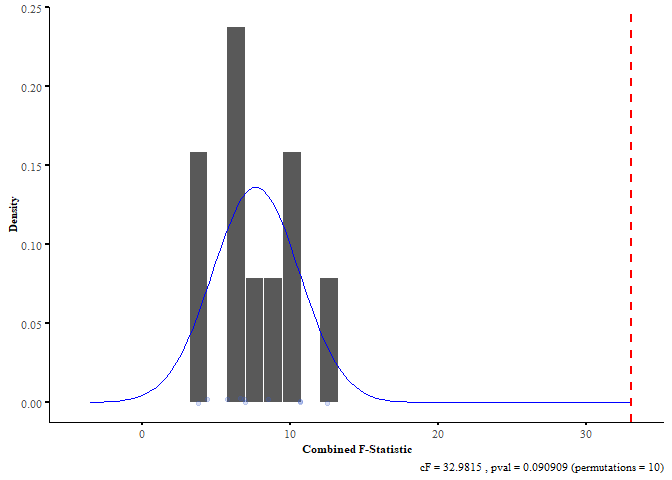
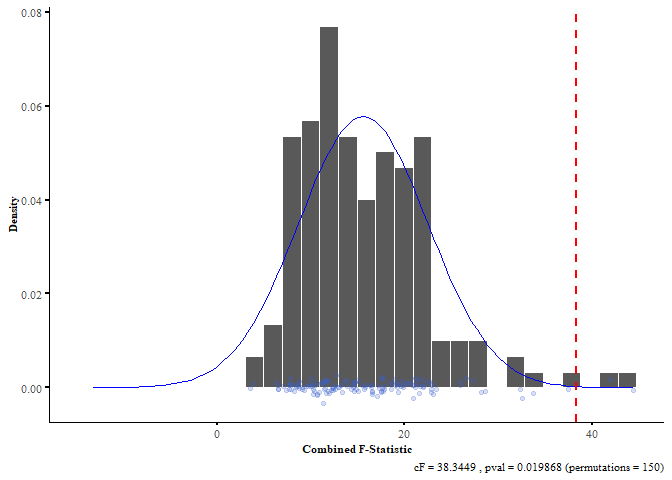
updated

diff --git a/README.md b/README.md
@@ -33,6 +33,7 @@ install.packages("devtools")
 install.packages("ggplot2")
 install.packages("permute")
 install.packages("ggthemes")
+install.packages("rstatix")   
 
 devtools::install_github(repo = "andrew84830813/diffCompVarRcpp",
                          dependencies = T)
@@ -164,7 +165,7 @@ lrs = calcLogRatio(dat)
 #> Joining, by = "f"
 #> Joining, by = "f"
 #>    user  system elapsed 
-#>    0.17    0.00    0.17
+#>    0.14    0.00    0.14
 ```
 
 ## Visulaize Dataset
@@ -197,16 +198,24 @@ set.seed(08272008)
 
 
 ## Define Number of Permutations
-permRep = 100
+permRep = 150
 seeds = permute::shuffleSet(nrow(dat),nset = permRep)
 seeds = data.frame(t(seeds))
 ```
 
 ### Apply SelEnergyPerm to compute test statistic and idenfity key taxa
 
+*Note::* Since selEnergyPerm uses a forward greedy optimal feature
+selection approach there may be some variation in the exact logratios
+returned between machines. This can be caused by an accumulation of
+numerical errors and may vary from machine to machine.
+
 ``` r
-## run SelEnergyPerm
-sep.true = selEnergyPermR::selectionEnergy.scaled(inputData = dat)
+## Run SelEnergyPerm
+sep.true = selEnergyPermR::selectionEnergy.scaled(inputData = dat,patience = 500,dcv_nfold = 1)
+### **Note here we set the number of cross-validation folds to one for the DCV scoring (dcv_nfold=1). 
+###   This is done to improve reproducibility of results between machines. 
+## Extract Results
 res = data.frame(i =1:nrow(sep.true$optimResult),sep.true$optimResult)
 ggplot(res,aes(i,optF))+
   geom_line(col = "red")+
@@ -254,19 +263,24 @@ knitr::kable(testStat.df)
 
 | Type      |    Seed | Exp.Name | rep | num\_ratios |    tstat | optMetric |
 |:----------|--------:|:---------|----:|------------:|---------:|:----------|
-| empirical | 8272008 | Tutorial |   1 |          10 | 32.98152 | combinedF |
+| empirical | 8272008 | Tutorial |   1 |          16 | 38.34488 | combinedF |
 
 ### Compute Null Distribution
 
 Here we use Monte-Carlo sampling from the permutation distribution to
 test significance of the sparse association. We recommend at least 150
-permutations.
+permutations. To start, you can estimate your machines computational
+time by running 10 permutations and proceeding according. Computational
+time will depend on processor speed and the number of core needed. The
+total time needed for 150 permutations on a laptop with and 8th gen I9
+processor with a single core and 32GB RAM is provided below for
+reference.
 
 ``` r
 ## Null Results ####
 seed_ = 08272208
 nullPerf = data.frame()
-nreps = 10
+nreps = 150
 null.testStat = data.frame()
 system.time({
   for(r in 1:nreps){
@@ -276,7 +290,7 @@ system.time({
       ## Run selection Energy Routine on permuted data
       null_data = dat
       null_data[,1] = null_data[seeds[,r],1]
-      sep.null = selEnergyPermR::selectionEnergy.scaled(inputData = null_data,
+      sep.null = selEnergyPermR::selectionEnergy.scaled(inputData = null_data,dcv_nfold = 1,
                                         targetFeats = targetRatios,
                                         optimizationMetric = optMetric)
 
@@ -310,10 +324,10 @@ system.time({
   }
 })
 #>    user  system elapsed 
-#>   35.81    0.67   35.51
+#>  428.10    4.09  417.53
 ```
 
-## Visulaize SelEnergyPerm Association Test Results
+## Visualize SelEnergyPerm Association Test Results
 
 ``` r
 
@@ -325,7 +339,7 @@ ph = rbind(t1.null,t1.empi[1,])
 testStat =  unique(t1.empi$tstat)
 dt = t1.null$tstat
 1-ecdf(dt)(testStat)
-#> [1] 0
+#> [1] 0.01333333
 mm = mean(dt)
 ss = sd(dt)
 pval = 1-pnorm(testStat,mean = mm,sd = ss)
